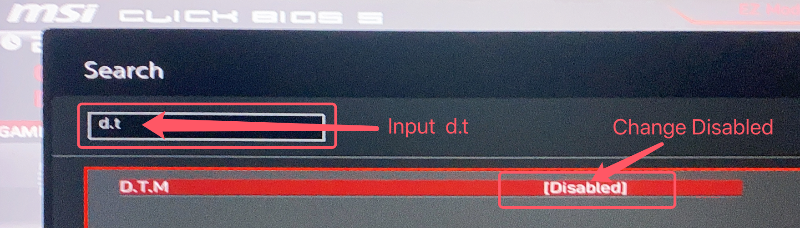
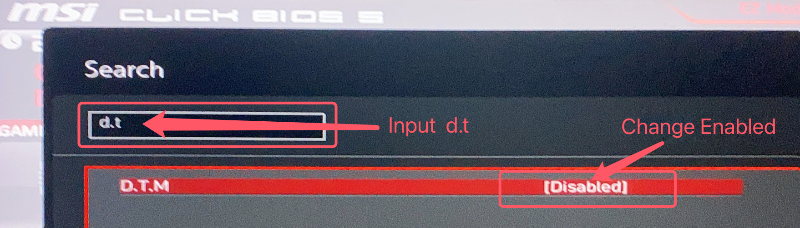
update

diff --git a/README.zh_CN.md b/README.zh_CN.md
@@ -1,8 +1,8 @@
-## MAG B760M MORTAR Hackintosh OpenCore EFI
+## MAG B760M MORTAR 黑苹果 OpenCore EFI
 
 ![image](Screenshot/Motherbord.png)
 
-### [简体中文](README.zh_CN.md)
+### [简体中文](https://github.com/hackintosh-club/MAG-B760M-MORTAR-OpenCore)
 
 
 ### OpenCore
@@ -16,34 +16,35 @@
 - Monterey
 
 
-### Spec
+### 硬件
 
-- Chipset: B760
-- BIOS: 7E01vM3 2023-05-19
-- CPU: Intel 13th i5-13600KF
-- Memo: KingBank A-Die 32GB(16GB*2) DDR5 6000 Mhz
-- SSD: Fanxiang  S790 1TB Windows
-- SSD: TiPlus 7100 1TB MacOS
-- GPU: ASUS Dual Radeon RX 6600 XT 8GB GDDR6
-- HDA: Realtek ALC897
-- LAN: 
-- WLAN: Intel 
-- CPU COOLING: Thermalright Frozen Magic 240 BLACK
-- CASE:  WJCOOMAN MATX (YELLOW)
-- PSU:  Segotep GM750W GOLD 750W
+- 芯片组: B760
+- BIOS版本: 7E01vM3 2023-05-19
+- 处理器: 英特尔13代 i5-13600KF
+- 内存: 金百达 A-Die 32GB(16GB*2) DDR5 6000 Mhz
+- 硬盘: 梵想  Fanxiang S790 1TB Windows
+- 硬盘: 致态 TiPlus 7100 1TB MacOS
+- 显卡: ASUS Dual Radeon RX 6600 XT 8GB GDDR6 雪豹
+- 声卡: 瑞昱 ALC897
+- 有线网卡: 
+- 无线网卡: 英特尔
+- 处理器散热: 利民 240 冰封幻境 一体式水冷散热器 ARGB LGA1700 黑色
+- 机箱:  玩嘉 铝元素紧凑机箱 MATX (黄色)
+- 电源:  鑫谷 GM750W ATX 80 金牌全模组
 
 
-### BIOS
+### BIOS设置
 
 ```
 Settings
   |-- Security
      |-- Secure Boot
        |-- Secure Boot: Disabled
-       
+1.关闭安全启动
 Search
   |-- D.T.M
     |-- D.T.M: Enabled
+ 2.启用 D.T.M 
 ```
 
 <img src="Screenshot/Search.png" alt="image" style="zoom:50%;" />
@@ -54,11 +55,11 @@ Search
 
 
 
-### Notes
+### 注意事项
 
- - Use [OpenCore Configurator](https://mackie100projects.altervista.org/opencore-configurator/) or [OCAuxiliaryTools](https://github.com/ic005k/OCAuxiliaryTools) build your SMBIOS
+ - 安装成功后必须使用 [OpenCore Configurator](https://mackie100projects.altervista.org/opencore-configurator/) 或者 [OCAuxiliaryTools](https://github.com/ic005k/OCAuxiliaryTools) 生成你自己的 SMBIOS
 
-### Screenshot
+### 系统截图
 
 ![macOS Ventura](Screenshot/about.png)
 
@@ -67,7 +68,7 @@ Search
 ![Geekbench 5](Screenshot/geekbench5.png)
 
 
-### Tools
+### 常用工具
 
 - [Hackintool](https://github.com/headkaze/Hackintool) 
 - [OCAuxiliaryTools](https://github.com/ic005k/OCAuxiliaryTools) AKA `OCAT`.
@@ -76,7 +77,7 @@ Search
 - [ProperTree](https://github.com/corpnewt/ProperTree) Plist editor.
 
 
-### Contact Us
+### 联系我们
 
 QQ Group: 23304408
 
